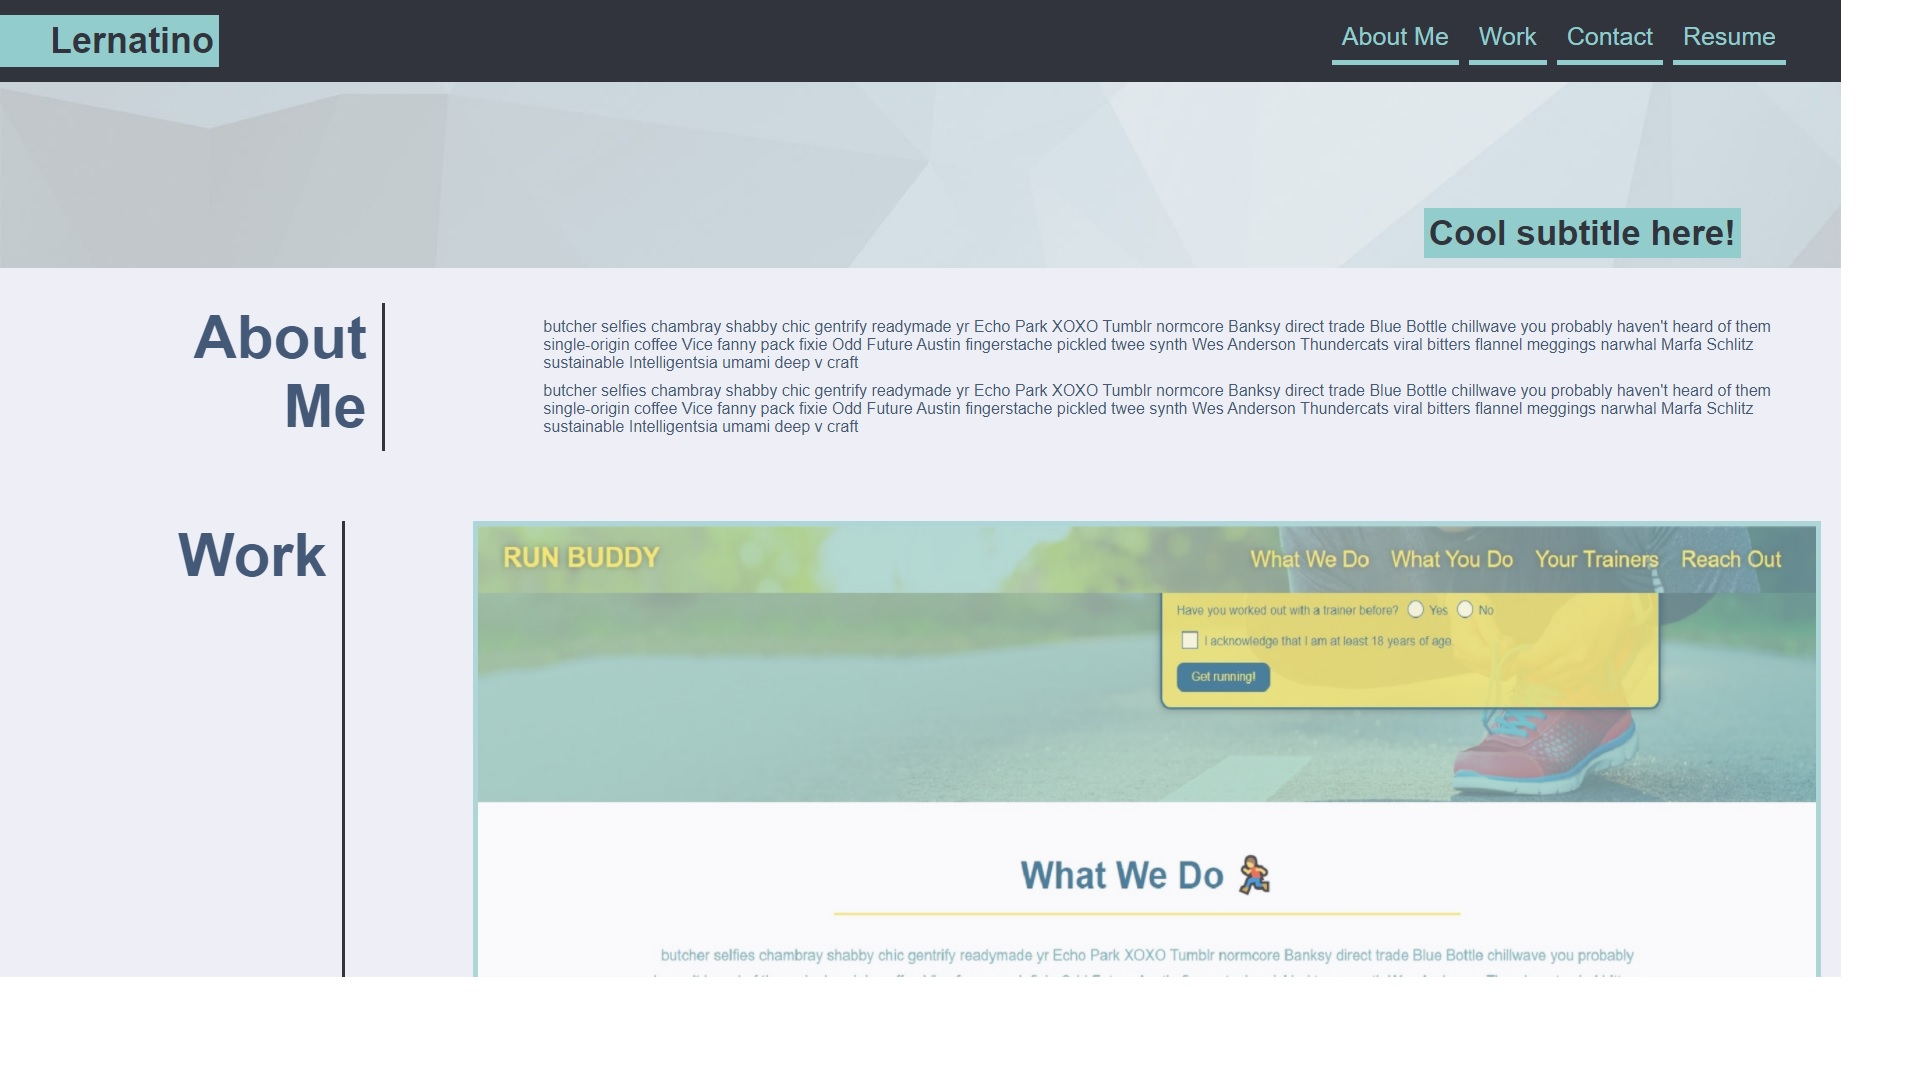
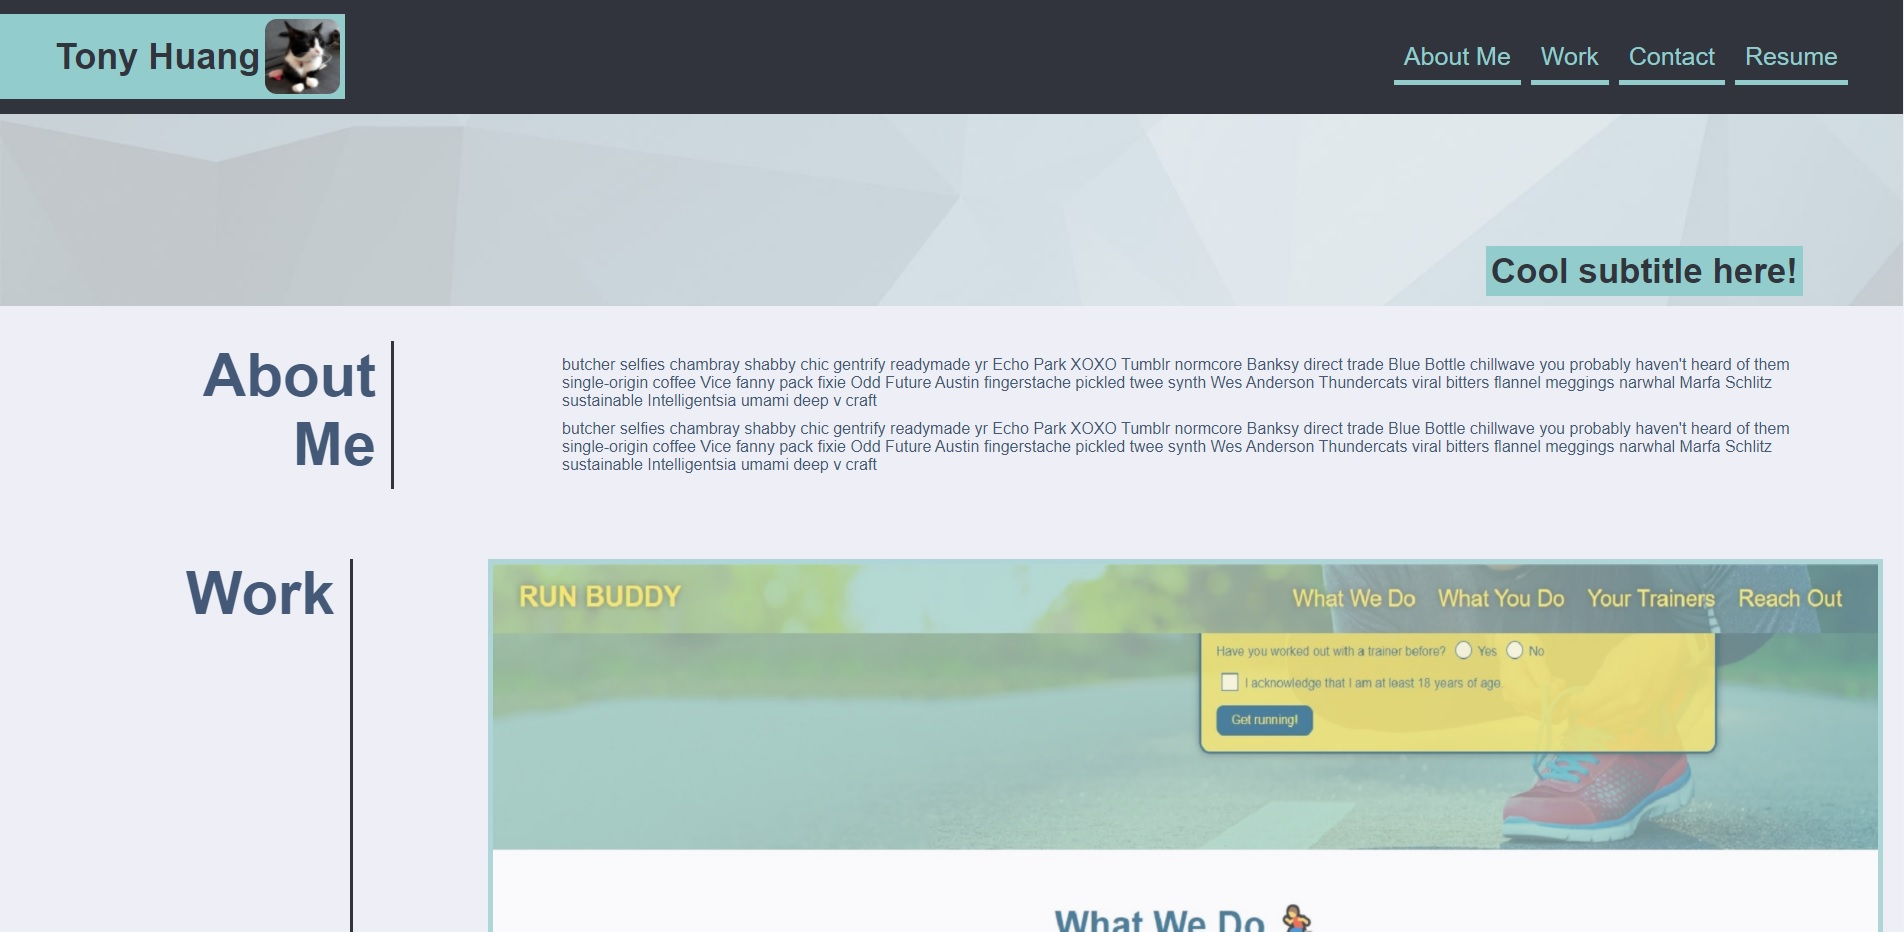
update README images and mobile font sizing

diff --git a/assets/css/style.css b/assets/css/style.css
@@ -269,6 +269,8 @@ section {
     header h1 {
         width: 100%;
         text-align: center;
+        justify-content: center;
+        font-size: 30px;
     }
     header nav ul {
         width: 100%;
@@ -298,6 +300,11 @@ section {
 @media screen and (max-width: 768px) {
     header h1 {
         padding: 5px 0 5px 0;
+        font-size: 20px;
+    }
+    .avatar {
+        width: 50px;
+        height: 50px;
     }
     .hero-title h2 {
         font-size: 25px;
